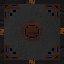
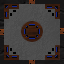
Add background (not working for now)

diff --git a/core/src/com/tohant/om2d/actor/Background.java b/core/src/com/tohant/om2d/actor/Background.java
@@ -1,0 +1,46 @@
+package com.tohant.om2d.actor;
+
+import com.badlogic.gdx.graphics.Pixmap;
+import com.badlogic.gdx.graphics.Texture;
+import com.badlogic.gdx.graphics.g2d.Batch;
+import com.badlogic.gdx.scenes.scene2d.Actor;
+import com.badlogic.gdx.utils.Disposable;
+
+public class Background extends Actor implements Disposable {
+
+    private Texture background;
+
+    public Background() {
+        createGrass();
+    }
+
+    @Override
+    public void draw(Batch batch, float parentAlpha) {
+        super.draw(batch, parentAlpha);
+        batch.draw(background, getX(), getY());
+    }
+
+    private void createGrass() {
+        int width = Math.round(getWidth() / 64f);
+        int height = Math.round(getHeight() / 64f);
+        Texture grass = new Texture("grass.png");
+        Pixmap grassBackground = new Pixmap((int) getWidth(), (int) getHeight(), Pixmap.Format.RGBA8888);
+        if (!grass.getTextureData().isPrepared()) {
+            grass.getTextureData().prepare();
+        }
+        Pixmap grassPixmap = grass.getTextureData().consumePixmap();
+        for (int i = 0 ; i < width; i++) {
+            for (int j = 0; j < height; j++) {
+                grassBackground.drawPixmap(grassPixmap, i * 64, j * 64);
+            }
+        }
+        background = new Texture(grassBackground);
+        grassPixmap.dispose();
+        grassBackground.dispose();
+    }
+
+    @Override
+    public void dispose() {
+        this.background.dispose();
+    }
+}

diff --git a/core/src/com/tohant/om2d/actor/Map.java b/core/src/com/tohant/om2d/actor/Map.java
@@ -6,7 +6,9 @@ import com.badlogic.gdx.math.MathUtils;
 import com.badlogic.gdx.math.Rectangle;
 import com.badlogic.gdx.math.Vector2;
 import com.badlogic.gdx.math.Vector3;
-import com.badlogic.gdx.scenes.scene2d.*;
+import com.badlogic.gdx.scenes.scene2d.Group;
+import com.badlogic.gdx.scenes.scene2d.InputEvent;
+import com.badlogic.gdx.scenes.scene2d.InputListener;
 
 public class Map extends Group {
 
@@ -55,7 +57,14 @@ public class Map extends Group {
         });
     }
 
+    @Override
+    public void act(float delta) {
+        super.act(delta);
+//        background.setPosition(getWidth() - grid.getWidth() - grid.getX(), getHeight() - grid.getHeight() - grid.getY());
+    }
+
     public Grid getGrid() {
         return grid;
     }
+
 }

diff --git a/core/src/com/tohant/om2d/screen/GameScreen.java b/core/src/com/tohant/om2d/screen/GameScreen.java
@@ -71,7 +71,6 @@ public class GameScreen implements Screen {
         gameStage.draw();
         gameStage.act(delta);
         batch.begin();
-        batch.setColor(Color.WHITE);
         batch.end();
         camera.update();
     }
